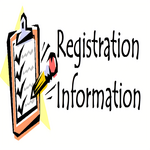
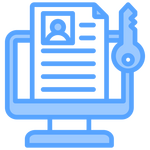
some customization and visual change

diff --git a/src/components/SigningStepsAuthorization.js b/src/components/SigningStepsAuthorization.js
@@ -8,6 +8,12 @@ export const SigningStepsAuthorization = (props) => {
     //export const Features = (props) => {
     return (
         <Container  >
+            <div className="row">
+                <div className="section-title text-center">
+                    <h2>Sign Document and Authorization</h2>
+                </div>
+
+            </div>
             <Row className="step-row mb-4">
                 <Col md={6}>
                     <img src={Image3} alt="Service 1" className="img-fluid mb-3" style={{ width: '100%', height: '350 px', objectFit: 'cover' }} />
@@ -19,7 +25,7 @@ export const SigningStepsAuthorization = (props) => {
                             {/*</p>*/}
                             <p>
                                 {props.data
-                                    ? props.data.Signing.join(" ")
+                                    ? <h4 style={{ lineHeight: "1.8" }}>{props.data.Signing.join(" ")}</h4>
                                     : "Loading..."}
                             </p>
 
@@ -34,7 +40,7 @@ export const SigningStepsAuthorization = (props) => {
                             {/*<p className="list-group-item list-group-item-primary"><h3>Step 4 : Authorization</h3></p>*/}
                             <p>
                                 {props.data
-                                    ? props.data.Authorization.join(" ")
+                                    ? <h4 style={{ lineHeight: "1.8" }}>{props.data.Authorization.join(" ")}</h4>
                                     : "Loading..."}
                             </p>
 

diff --git a/src/components/SigningSteps.js b/src/components/SigningSteps.js
@@ -6,6 +6,12 @@ export const SigningStepss = (props) => {
     //export const Features = (props) => {
     return (
         <Container  >
+            <div className="row">
+                <div className="section-title text-center">
+                    <h2>Registration and Device Registration</h2>
+                </div>
+
+            </div>
             <Row className="step-row mb-4">
                 <Col md={6}>
                     <img src={Image1} alt="Service 1" className="img-fluid mb-3" style={{ width: '100%', height: '350 px', objectFit: 'cover' }} />
@@ -15,7 +21,7 @@ export const SigningStepss = (props) => {
                         <ol className="list-group">
                             <p>
                                 {props.data
-                                    ? props.data.Registration.join(" ")
+                                    ? <h4 style={{ lineHeight: "1.8" }}>{props.data.Registration.join(" ")}</h4>
                                     : "Loading..."}
                             </p>
 
@@ -29,7 +35,7 @@ export const SigningStepss = (props) => {
                         <ul className="list-group">
                             <p>
                                 {props.data
-                                    ? props.data.Device_Registration.join(" ")
+                                    ? <h4 style={{ lineHeight: "1.8" }}>{props.data.Device_Registration.join(" ")}</h4>
                                     : "Loading..."}
                             </p>
 

diff --git a/src/css/SigningStepsCard.css b/src/css/SigningStepsCard.css
@@ -4,15 +4,14 @@
     gap: 20px;
     padding: 20px;
 }
-
 .card {
-    background-color: #f9f9f9;
-    border: 1px solid #ddd;
+    background: linear-gradient(to bottom, #ffffff, #007bff);
+    color: black;
     border-radius: 8px;
-    padding: 50px;
+    box-shadow: 0 8px 14px rgba(0, 0, 0, 0.1);
+    padding: 16px;
     text-align: center;
     text-decoration: none;
-    color: inherit;
     transition: transform 0.3s ease, box-shadow 0.3s ease;
 }
 
@@ -22,6 +21,7 @@
 }
 
 .card-image {
+    border-radius: 8px;
     max-width: 100%;
     height: auto;
     margin: 0 auto;
@@ -34,5 +34,8 @@
 
 .card-description {
     font-size: 1em;
-    color: #666;
+    color: black;
+}
+.card-button {
+    color: black;
 }

diff --git a/src/components/SigningStepsCard.js b/src/components/SigningStepsCard.js
@@ -1,7 +1,7 @@
 import React from 'react';
 import '../css/SigningStepsCard.css'; // Create a CSS file for styling
 import regImage from '../album/registration_image.png';
-import authImage from '../album/authorization_image.jpg';
+import authImage from '../album/authorization_image.png';
 const SigningStepsCard = () => {
     const cards = [
         {
